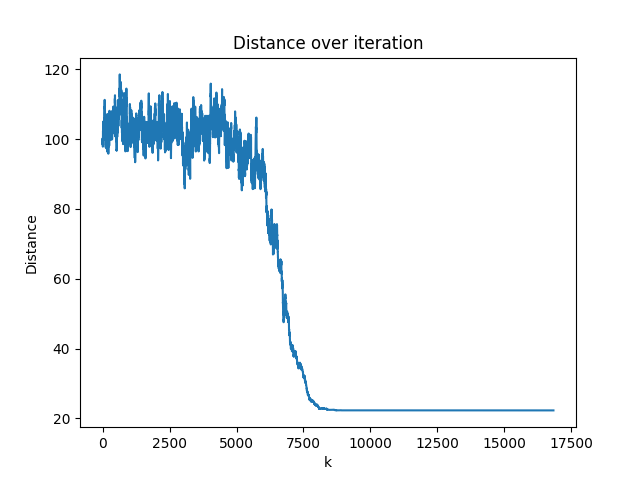
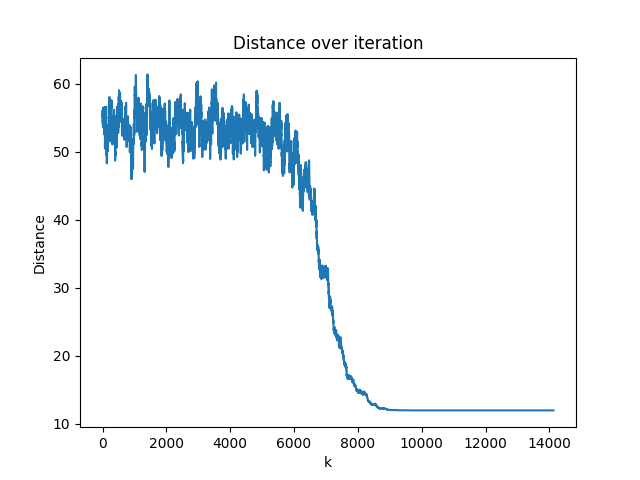
done hw4

diff --git a/HW04/pb1and2/saleman.py b/HW04/pb1and2/saleman.py
@@ -5,11 +5,11 @@ import matplotlib
 matplotlib.use('TkAgg')
 import matplotlib.pyplot as plt
 
-MODE = "RANDOM" # "RANDOM"
-HOUSE = 100
+MODE = "CIRCLE" # "RANDOM"
+HOUSE = 30
 T = 30000
-T_DECAY = 0.95
-T_STOP = 1e-8
+T_DECAY = 0.75
+T_STOP = 1e-6
 N_ACCEPTED_MAX = 30
 
 KEEP_DISTANCE = []
@@ -20,7 +20,7 @@ if MODE == "CIRCLE":
     ])
 elif MODE == "RANDOM":
     REGION = np.array([
-        [np.random.uniform(1,-1), np.random.uniform(1,-1)] for i in range(HOUSE)
+        [np.random.uniform(0,1), np.random.uniform(0,1)] for i in range(HOUSE)
     ])
 
 def compute_path(sequence):
@@ -55,7 +55,7 @@ if __name__ == "__main__":
     plt.xlabel('x')
     plt.ylabel('y')
 
-    plt.savefig('walking_path_0_{}.png'.format(MODE))
+    # plt.savefig('walking_path_0_{}.png'.format(MODE))
     plt.clf()
     ##
     t = T
@@ -90,17 +90,17 @@ if __name__ == "__main__":
     plt.plot(REGION[accepted_sequence[-1], 0], REGION[accepted_sequence[-1], 1], 'go', label="end")
     plt.legend()
 
-    plt.title('Saleman walking path')
+    plt.title('Saleman walking path (decay_rate={})'.format(T_DECAY))
     plt.xlabel('x')
     plt.ylabel('y')
 
-    plt.savefig('walking_path_{}.png'.format(MODE))
+    plt.savefig('img/walking_path_{}_{}.png'.format(MODE, T_DECAY))
     # plt.show()
 
     plt.clf()
     plt.plot(KEEP_DISTANCE)
-    plt.title('Distance over iteration')
+    plt.title('Distance over iteration (decay_rate={})'.format(T_DECAY))
     plt.xlabel('k')
     plt.ylabel('Distance')
-    plt.savefig('distance_{}.png'.format(MODE))
+    plt.savefig('img/distance_{}_{}.png'.format(MODE, T_DECAY))
     # plt.show()

diff --git a/HW04/README.md b/HW04/README.md
@@ -1,6 +1,148 @@
 # HW 4
 
-# Pb 4
+## Solving traveling saleman problem by using Simulated Annealing (SA) 
+Optimize walking distance all over the region by using Simulated Annealing.
+
+* Simulated Annealing
+    * Initial random state and temperature
+    * Disturb the state and calculate the difference potential compare to the previous state to compute the new accept state
+        * If the new potential is lower then accept
+        * Else calculate accepted probability of the new state regarding to Boltzmann distribution
+    * Repeat second step until the accept state reaching the cutoff that we difined with a temperature decay factor for the new iteration
+
+Hyper parameters
+```python
+T = 30000
+T_DECAY = 0.95
+T_STOP = 1e-6
+N_ACCEPTED_MAX = 30
+```
+
+### Pb1 Circle
+```python
+HOUSE = 30
+```
+
+<p align="center">
+    <img src="pb1and2/walking_path_0_CIRCLE.png" width="500px" >
+    <br>
+    <em>Initial path</em>
+</p>
+
+<p align="center">
+    <img src="pb1and2/distance_CIRCLE.png" width="500px" >
+    <br>
+    <em>Sum distance over iterations</em>
+</p>
+
+<p align="center">
+    <img src="pb1and2/walking_path_CIRCLE.png" width="500px" >
+    <br>
+    <em>Optimized path</em>
+</p>
+
+### Pb2 Uniform random location
+```python
+HOUSE = 100
+```
+ 
+<p align="center">
+    <img src="pb1and2/walking_path_0_RANDOM.png" width="500px" >
+    <br>
+    <em>Initial path</em>
+</p>
+
+<p align="center">
+    <img src="pb1and2/distance_RANDOM.png" width="500px" >
+    <br>
+    <em>Sum distance over iterations</em>
+</p>
+
+<p align="center">
+    <img src="pb1and2/walking_path_RANDOM.png" width="500px" >
+    <br>
+    <em>Optimized path</em>
+</p>
+
+#### Varying T_DECAY to observe the behavior of the system
+<p align="center">
+    <img src="pb1and2/img/distance_CIRCLE_0.85.png" width="400px" >
+    <img src="pb1and2/img/walking_path_CIRCLE_0.85.png" width="400px" >
+    <br>
+    <em>DECAY_RATE = 0.85</em>
+</p>
+
+<p align="center">
+    <img src="pb1and2/img/distance_CIRCLE_0.75.png" width="400px" >
+    <img src="pb1and2/img/walking_path_CIRCLE_0.75.png" width="400px" >
+    <br>
+    <em>DECAY_RATE = 0.75</em>
+</p>
+
+Since the minimum condition of DECAY_RATE could not be lower than 0.85 then 0.75 is the problem in principle but in practice it yield the same of 0.85 in this case. There are only on path that system could not solve if we set DECAY lower than 0.9.
+
+## Minimize Ackley Function
+
+<p align="center">
+    <img src="pb3/contour.png" width="500px" >
+</p>
+
+### Pb3 Simulated Annealing
+<p align="center">
+    <img src="pb3/potential_decay.png" width="500px" >
+    <br>
+    <em>Potential overiteration</em>
+</p>
+
+<p align="center">
+    <img src="pb3/walking_contour.png" width="500px" >
+    <br>
+    <em>Particle positions over iterations</em>
+</p>
+
+### Pb4 Particle Swam
+
+* Define reward function as the negative sign of Ackley function to be a fitness value
+* Suppose the iteration k each particle hold it own fitness balue b_i then the local best fitness is max(b_i) and the global one need to be consider as
+<p align="center">
+<a href="https://www.codecogs.com/eqnedit.php?latex=B&space;=&space;\text{argmax}(b^i_k)" target="_blank"><img src="https://latex.codecogs.com/svg.latex?B&space;=&space;\text{argmax}(b^i_k)" title="B = \text{argmax}(b^i_k)" /></a>
+</p>
+where the position of the best local and global particle is also neccesary to use to calculate the velocity over iteration process
+
+* Governing equation for updating the new velocity
+<p align="center">
+<a href="https://www.codecogs.com/eqnedit.php?latex=v^i_{k&plus;1}&space;=&space;\omega&space;v^i_k&space;&plus;&space;c^br^b_k[x^i_{k,*local}-x^i_k]&space;&plus;&space;c^Br^B_k[x^i_{k,*global}-x^i_k]" target="_blank"><img src="https://latex.codecogs.com/svg.latex?v^i_{k&plus;1}&space;=&space;\omega&space;v^i_k&space;&plus;&space;c^br^b_k[x^i_{k,*local}-x^i_k]&space;&plus;&space;c^Br^B_k[x^i_{k,*global}-x^i_k]" title="v^i_{k+1} = \omega v^i_k + c^br^b_k[x^i_{k,*local}-x^i_k] + c^Br^B_k[x^i_{k,*global}-x^i_k]" /></a>
+</p>
+
+<p align="center">
+<a href="https://www.codecogs.com/eqnedit.php?latex=x^i_{k&plus;1}&space;=&space;x^i_k&space;&plus;&space;v^i_{k&plus;1}" target="_blank"><img src="https://latex.codecogs.com/svg.latex?x^i_{k&plus;1}&space;=&space;x^i_k&space;&plus;&space;v^i_{k&plus;1}" title="x^i_{k+1} = x^i_k + v^i_{k+1}" /></a>
+</p>
+
+where
+* omega is the inertia constant of to weight the old velocity
+* c is the factor of the dragging force of the local and global best fitness
+* r is the uniform random value from zero to unity
+
+In my case
+```python
+N_PARTICLE = 32
+OMEGA = 0.7
+C_b = 2.0
+C_B = 2.0
+STOP_VAL = 1e-4
+```
+
+<p align="center">
+    <img src="pb4/log/particle_swarm0002.png" width="500px" >
+    <br>
+    <em>Initial position</em>
+</p>
+
+<p align="center">
+    <img src="pb4/reward_iteration.png" width="500px" >
+    <br>
+    <em>Reward over iterations</em>
+</p>
 
 <p align="center">
     <img src="pb4/log/anim.gif" width="500px" >
